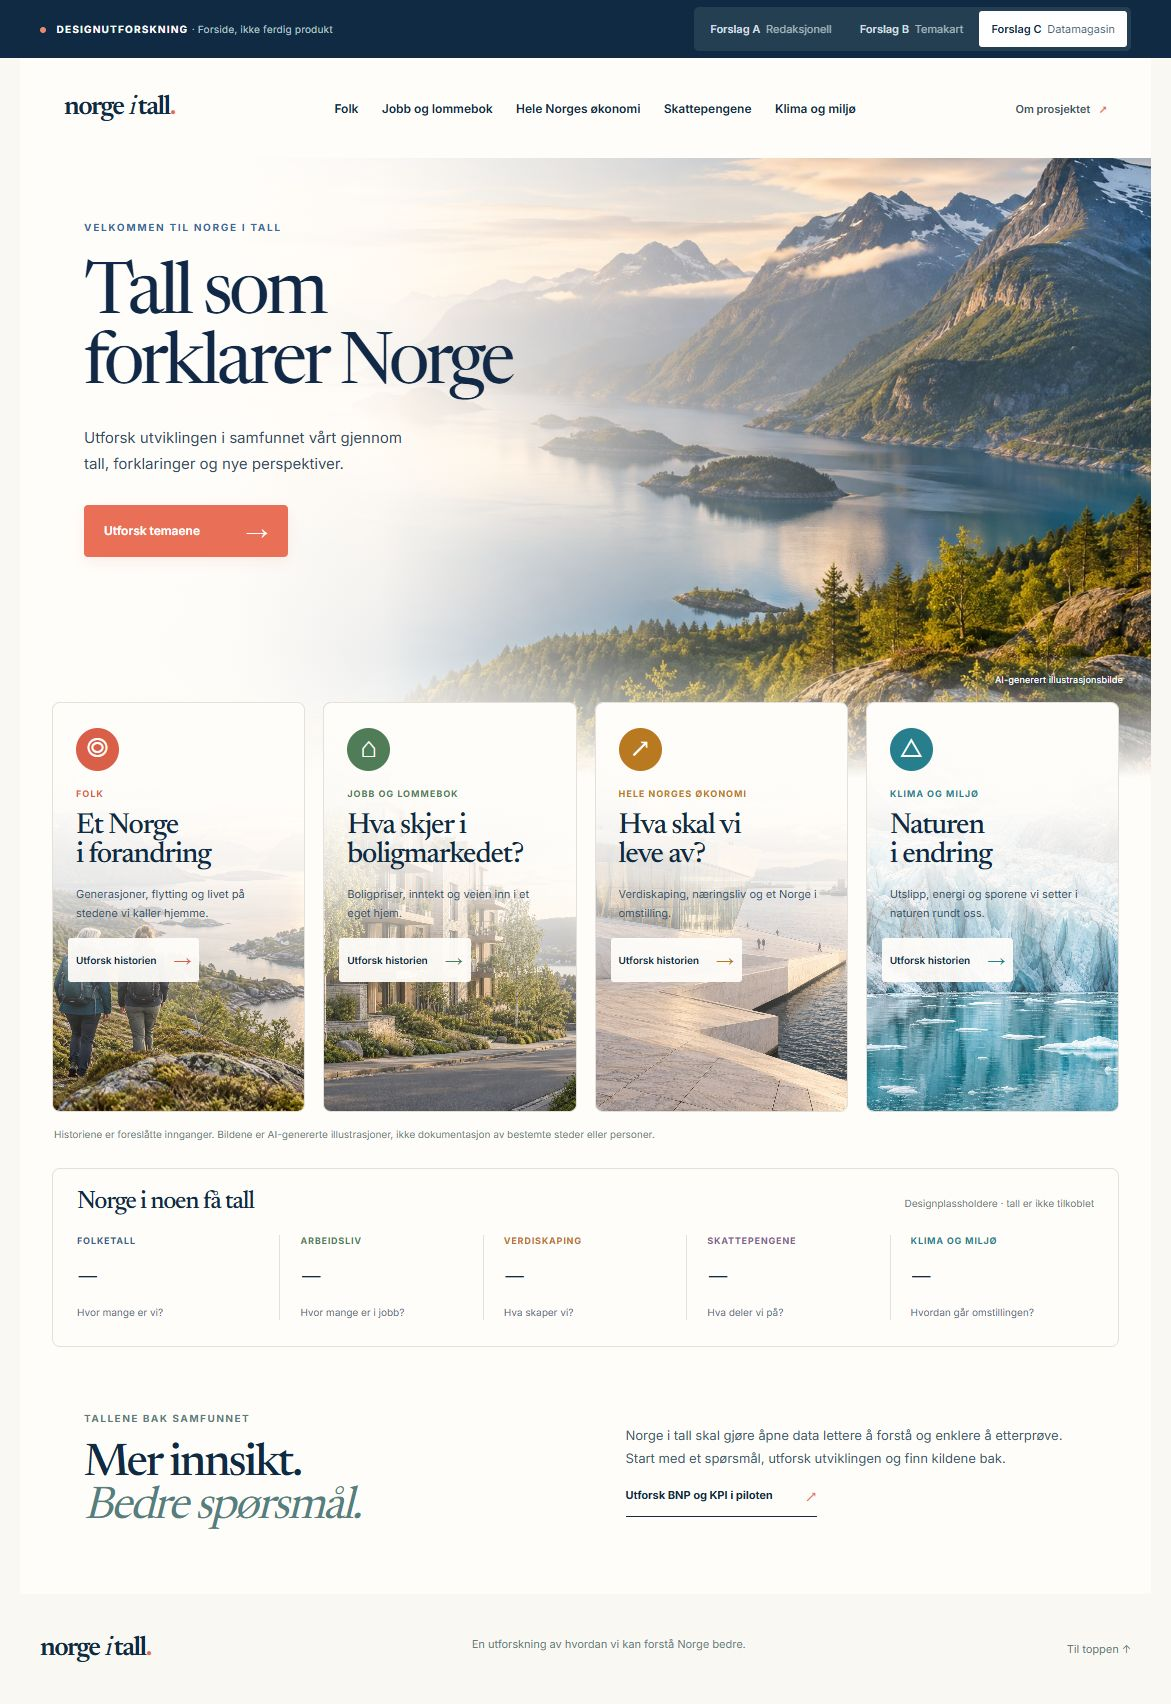
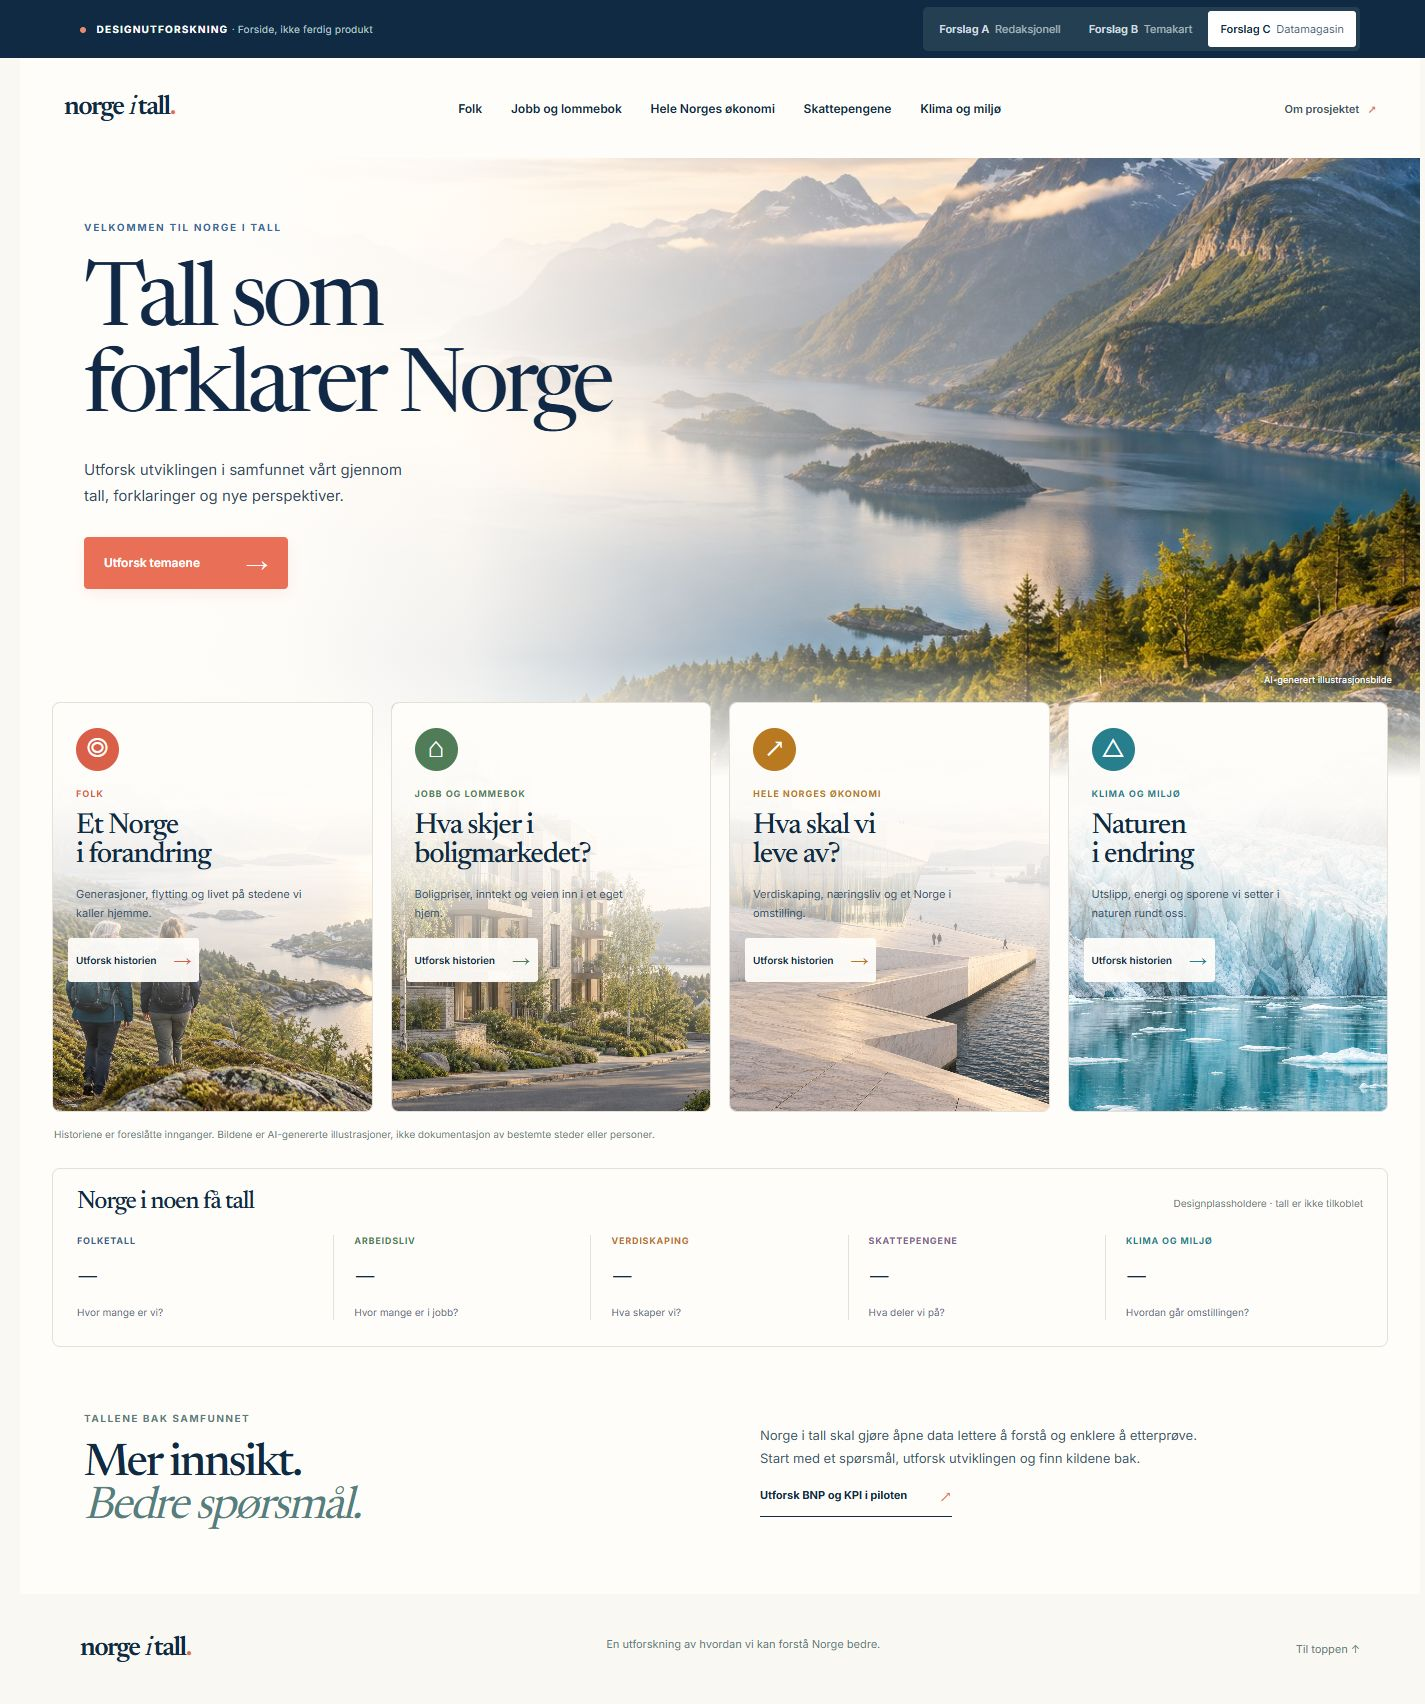
fix(ux): open the published preview in proposal C

diff --git a/public/ux-exploration/index.html b/public/ux-exploration/index.html
@@ -8,19 +8,19 @@
     <link rel="preconnect" href="https://fonts.googleapis.com" />
     <link rel="preconnect" href="https://fonts.gstatic.com" crossorigin />
     <link href="https://fonts.googleapis.com/css2?family=Inter:wght@400;500;600;700&family=Newsreader:opsz,wght@6..72,400;6..72,500;6..72,600&display=swap" rel="stylesheet" />
-    <link rel="stylesheet" href="./styles.css" />
-    <link rel="stylesheet" href="./magazine.css" />
-    <script src="./app.js" defer></script>
+    <link rel="stylesheet" href="./styles.css?v=magazine-c-2" />
+    <link rel="stylesheet" href="./magazine.css?v=magazine-c-2" />
+    <script src="./app.js?v=magazine-c-2" defer></script>
   </head>
-  <body>
+  <body data-layout="c">
     <a class="skip" href="#main">Hopp til innhold</a>
     <div class="preview-bar">
       <div class="preview-inner">
         <p><span class="preview-dot"></span> DESIGNUTFORSKNING <span class="preview-detail">· Forside, ikke ferdig produkt</span></p>
         <div class="switcher" role="group" aria-label="Velg designforslag">
-          <button type="button" data-layout="a" aria-pressed="true">Forslag A <span>Redaksjonell</span></button>
+          <button type="button" data-layout="a" aria-pressed="false">Forslag A <span>Redaksjonell</span></button>
           <button type="button" data-layout="b" aria-pressed="false">Forslag B <span>Temakart</span></button>
-          <button type="button" data-layout="c" aria-pressed="false">Forslag C <span>Datamagasin</span></button>
+          <button type="button" data-layout="c" aria-pressed="true">Forslag C <span>Datamagasin</span></button>
         </div>
       </div>
     </div>
@@ -32,7 +32,7 @@
       <a class="header-link" href="#om">Om prosjektet <span aria-hidden="true">↗</span></a>
     </header>
     <main id="main">
-      <div class="magazine" id="c-top" hidden>
+      <div class="magazine" id="c-top">
         <section class="magazine-hero" aria-labelledby="magazine-title">
           <img class="landscape" src="./images/hero.jpg" alt="AI-generert norsk fjordlandskap i mykt morgenlys" width="1536" height="1024" fetchpriority="high" />
           <div class="landscape-fade"></div>
@@ -69,7 +69,7 @@
         </section>
         <section class="magazine-about" id="c-om"><div><p class="eyebrow">TALLENE BAK SAMFUNNET</p><h2>Mer innsikt.<br /><em>Bedre spørsmål.</em></h2></div><div><p>Norge i tall skal gjøre åpne data lettere å forstå og enklere å etterprøve. Start med et spørsmål, utforsk utviklingen og finn kildene bak.</p><a class="text-link" href="/">Utforsk BNP og KPI i piloten <span aria-hidden="true">↗</span></a></div></section>
       </div>
-      <div id="top" class="page wrap">
+      <div id="top" class="page wrap" hidden>
         <section class="hero" aria-labelledby="hero-title">
           <div class="hero-copy">
             <p class="eyebrow"><span class="eyebrow-line"></span> ET KLARERE BILDE AV NORGE</p>

diff --git a/public/ux-exploration/app.js b/public/ux-exploration/app.js
@@ -1,7 +1,7 @@
 const buttons = document.querySelectorAll('[data-layout]')
 
 function selectLayout(layout) {
-  const selected = ['b', 'c'].includes(layout) ? layout : 'a'
+  const selected = ['a', 'b', 'c'].includes(layout) ? layout : 'c'
   document.body.dataset.layout = selected
   const page = document.querySelector('.page')
   page.hidden = selected === 'c'

diff --git a/docs/ux-exploration/forslag-c.md b/docs/ux-exploration/forslag-c.md
@@ -4,7 +4,10 @@ Referanse: Human Owners forslag 12, «Visuelt datamagasin × Nordisk minimalisme
 fargerik variant». Landskapsbilde, myk overgang til varm hvit, Newsreader/Inter,
 marineblå tekst og temafarger følger referansens retning.
 
-Åpne `/ux-exploration/index.html?forslag=c`. A og B beholdes i bryteren øverst.
+Åpne `/ux-exploration/index.html`. Bruk hele filstien: en mappeadresse kan bli
+tolket som en rute til pilotappen. C er standard også uten URL-parametere og før JavaScript
+starter. A og B beholdes i bryteren øverst. CSS og JavaScript har en versjonsnøkkel
+slik at nettleseren ikke gjenbruker den gamle A/B-velgeren ved oppdatering.
 Historiekortene er foreslåtte innganger, ikke ferdige artikler. Nøkkeltallstripen
 bruker streker i stedet for oppdiktede tall. Ingen nye dataintegrasjoner.
 
@@ -33,3 +36,21 @@ PNG-originalene ble konvertert til JPEG til bruk på nettet.
 Arbeidet er isolert til UX-utforskningen og tilhørende skjermbilder. Issue #20,
 pilotkomponenter, datalag og kontrakt er ikke endret. Eksisterende privat Sites-
 forhåndsvisning oppdateres; ingen ny hosting eller utvidet tilgang etableres.
+
+## Inngang til publisert forhåndsvisning
+
+`node scripts/package-ux-preview.mjs <eksisterende Sites-checkout>` kjøres etter
+`pnpm build`. Den kopierer bygget og gjør bare i hostingartefakten hovedadressen
+til en inngang til UX-forslagene, med C valgt. Pilotappen beholdes på `/pilot/index.html`,
+og pilotlenkene tilpasses. Lokal utvikling og vanlig produksjonsbygg er uendret.
+
+## Kontroll etter tilbakemelding på delt lenke
+
+Hovedadressen viste fortsatt pilotappen, og UX-siden valgte A uten et eksplisitt
+URL-valg. Rettelsen gjør C til standard og hovedadressen til en inngang til C.
+Publisert HTML bekrefter standard C og nye ressursversjoner. Alle fem publiserte
+JPEG-filer, `app.js` og `magazine.css` er kontrollert med HTTP 200 og identiske
+SHA-256-hasher mot prosjektfilene. Den pakkede inngangen er kontrollert i lokal
+nettleser på desktop og mobil; alle fem bilder lastes, uten horisontal overflyt
+eller konsollfeil. A og B kan fortsatt velges. 190 tester og build bestått.
+Innlogging i den private siden er ikke visuelt verifisert i agentens nettleser.
